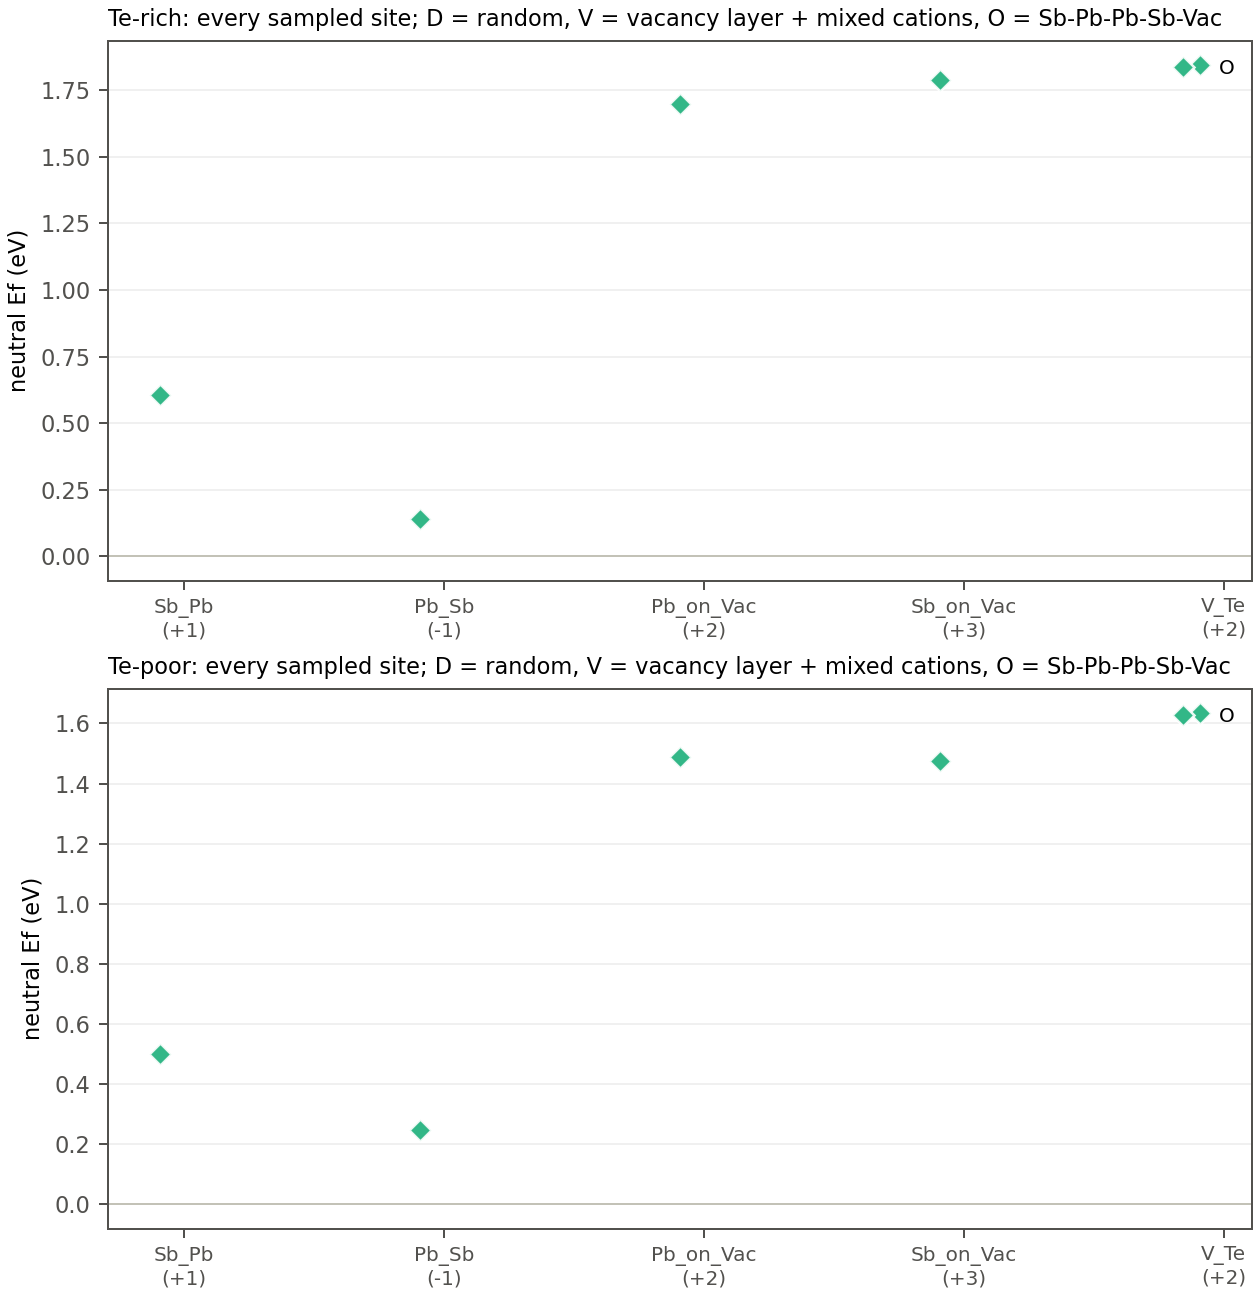
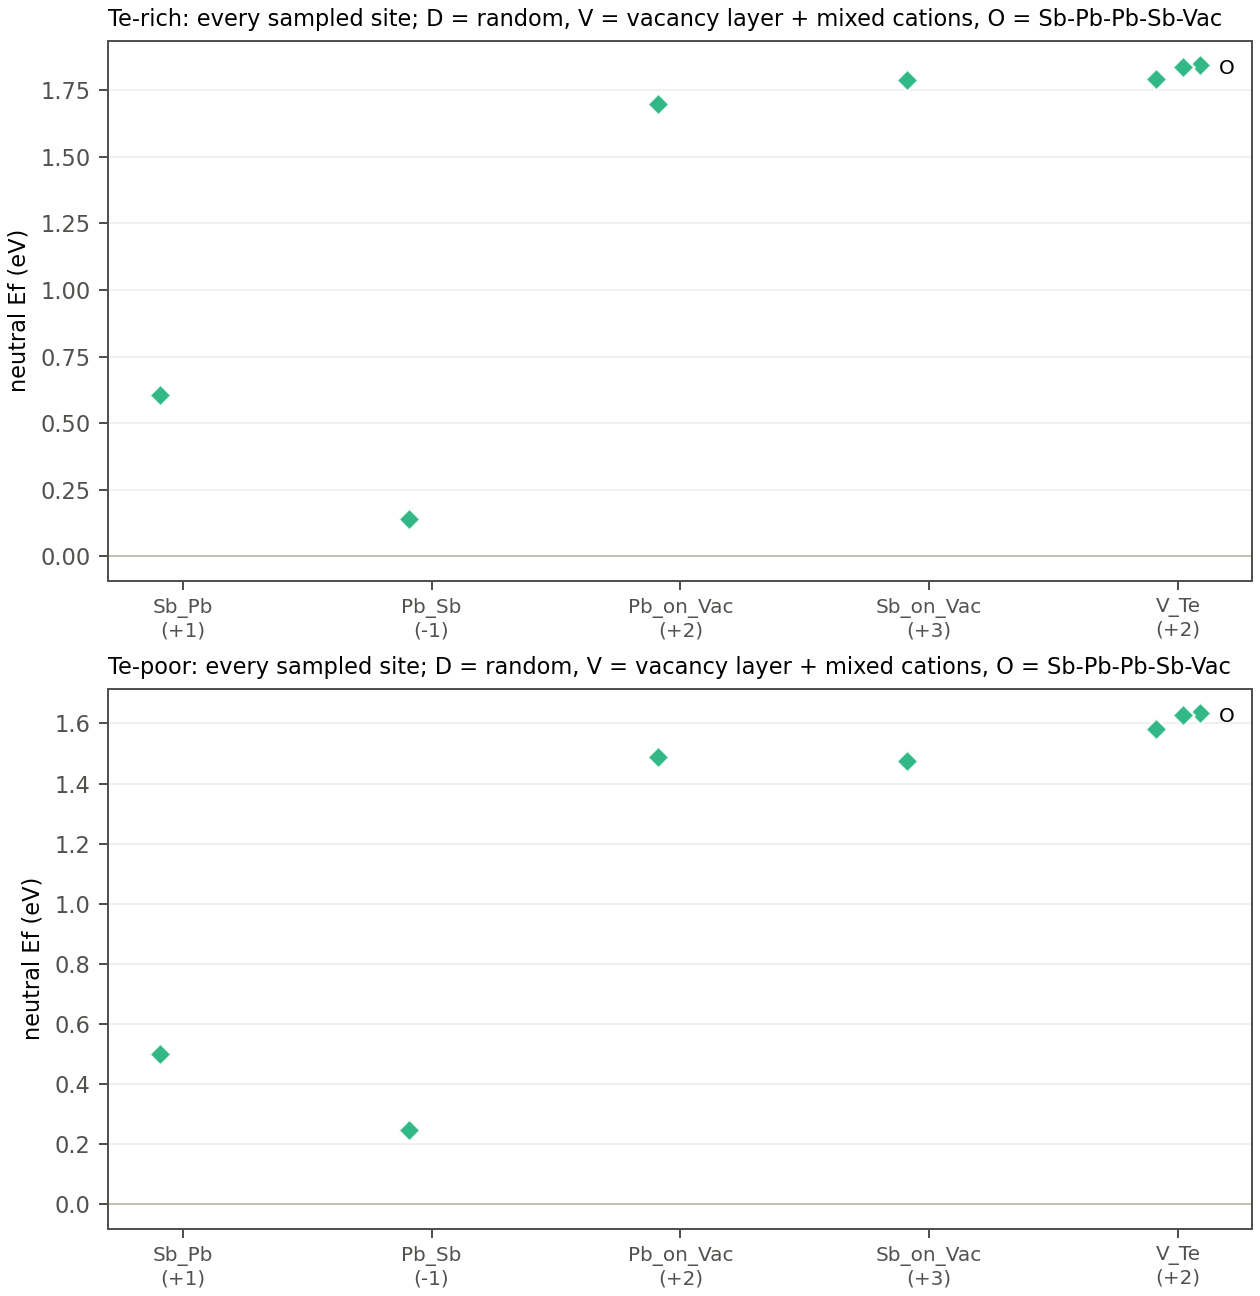
13_：结果_第一批 补入 V_Te 第二个位点（s02），排序不变
- collect 状态：DONE 13 / STATIC_INCOMPLETE 1 / NO_STATIC 8（原 12/1/9）。
- V_Te 现有 s01、s02 两个位点：Te-rich Ef0 = 1.793/1.819/1.845（min/median/max），Te-poor = 1.583/1.609/1.635。
- 位点间离散 ±26 meV，远小于与 Pb_Sb 的间距（高 1.3-1.6 eV），排序不变，V_Te 仍是五类中最高。
- README 第 2 节表格与 3.3 节已更新；注明 s03 static 已完成、s01 在跑 static，全部完成后重跑即可、结论不变。

diff --git a/13_DVO缺陷_VASP流程与分析/结果_第一批/README.md b/13_DVO缺陷_VASP流程与分析/结果_第一批/README.md
@@ -43,7 +43,10 @@ O_ordered 每 f.u.  = -591.98689 / 16 = -36.99918 eV
 | **Sb_Pb** | +1 | 施主 | +0.604 | +0.499 |
 | **Pb_on_Vac** | +2 | 施主 | +1.699 | +1.489 |
 | **Sb_on_Vac** | +3 | 施主 | +1.790 | +1.475 |
-| **V_Te** | +2 | 施主 | +1.845 | +1.634 |
+| **V_Te**（2 个位点） | +2 | 施主 | **+1.793 ~ +1.845** | **+1.583 ~ +1.635** |
+
+V_Te 已有 s01、s02 两个位点（s03 见下）：`Ef0_min/median/max` = 1.793/1.819/1.845（Te-rich）、
+1.583/1.609/1.635（Te-poor）。**位点之间的离散 ±26 meV，远小于它与其它缺陷的间距**，
 
 （`Ef0_eff_473K` / `Ef0_eff_573K` 与中性值相同，说明本批未做温度修正）
 
@@ -78,8 +81,11 @@ Pb_Sb (0.14-0.25)  <<  Sb_Pb (0.50-0.60)  <<  Pb_on_Vac ≈ Sb_on_Vac ≈ V_Te (
 
 ### 3.3 V_Te 形成能最高，不参与排序的前列
 
-V_Te 在两种极限下均为 1.63–1.84 eV，比 Pb_Sb 高 1.4–1.6 eV。
-因此 **V_Te s01/s02 两个位点尚未算完不影响本批排序**，等它们完成后补入即可（见 `../` 的 STATUS）。
+**V_Te 现在有 2 个位点完成**（s01、s02）：Te-rich 1.793–1.845 eV、Te-poor 1.583–1.635 eV，
+**比 Pb_Sb 高 1.3–1.6 eV**，仍是五类缺陷中最高的。位点间离散仅 ±26 meV，不影响排序。
+
+第三个位点 s03 的 static 已完成（`V_Te__s03` 计入 13 个 DONE 之一）；s01 目前在跑 static。
+全部位点完成后重跑 collect/analyze 即可，**结论不会变**。
 
 ## 4. 关于“倾向 p 型”的正确理解
 
